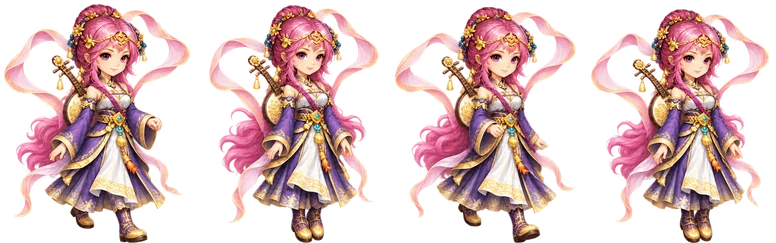
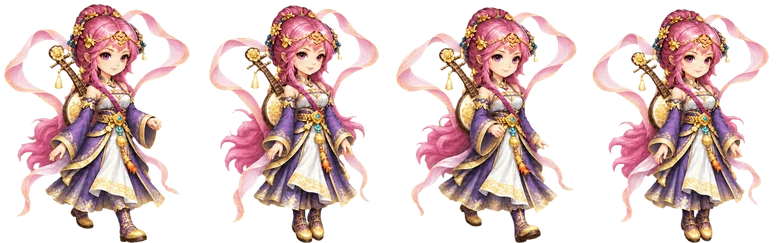
天音（女）正面行走帧：琵琶略放大，大部分藏在身后
Claude-Session: https://claude.ai/code/session_01Ug7SvjxsTvGWtWQTYLfcGg

diff --git a/js/assets.js b/js/assets.js
@@ -411,7 +411,7 @@ window.ASSETS = {
   "walk_f_dao_ty": [
    97.0,
    121.5,
-   51.1038338658147
+   51.24558587479936
   ],
   "walk_b_dao_ty": [
    87.0,
